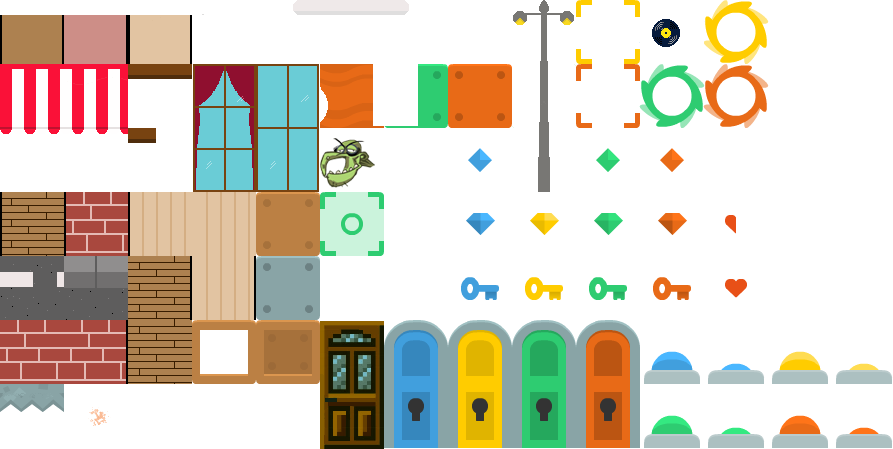
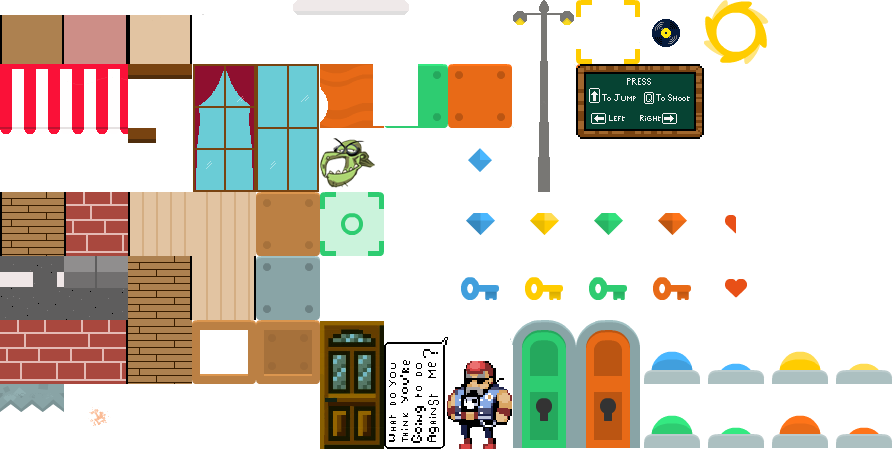
bientot fini

Changed region(s): [[0.4233, 0.686, 0.5745, 1.0], [0.6349, 0.1247, 0.8768, 0.3742], [0.7256, 0.343, 0.7861, 0.3742]]

diff --git a/src/scenes/TableauTiled.js b/src/scenes/TableauTiled.js
@@ -17,7 +17,7 @@ class TableauTiled extends Tableau{
         // nos images
         this.load.image('tiles', 'assets/Tiled/Tile_sheet2.png');
         //les données du tableau qu'on a créé dans TILED
-        this.load.tilemapTiledJSON('map', 'assets/TiledMap/MapVibe3.json');
+        this.load.tilemapTiledJSON('map', 'assets/TiledMap/MapVibe4.json');
 
         // -----et puis aussi-------------
         this.load.image('ciel', 'assets/ciel.png');
@@ -58,17 +58,20 @@ class TableauTiled extends Tableau{
         this.solide = this.map.createLayer('sol', this.tileset, 0, 0);
         this.decor = this.map.createLayer('décor', this.tileset, 0, 0);
         this.plat = this.map.createLayer('platformes', this.tileset, 0, 0);
+        this.image = this.map.createLayer('image', this.tileset, 0, 0);
 
 
         //on définit les collisions, plusieurs méthodes existent:
 
         this.solide.setCollisionByProperty({ collides: true });
         this.plat.setCollisionByProperty({ collides: true });
+        this.image.setCollisionByProperty({ collides: true });
 
 
         // 2 manière la plus simple (là où il y a des tiles ça collide et sinon non)
         this.solide.setCollisionByExclusion(-1, true);
         this.plat.setCollisionByExclusion(-1, true);
+        this.image.setCollisionByExclusion(-1, true);
 
 
         //----------les étoiles (objets) ---------------------
@@ -135,6 +138,11 @@ class TableauTiled extends Tableau{
             debug.visible=false;
         }
 
+        this.image.renderDebug(debug,{
+            tileColor: null, // Couleur des tiles qui ne collident pas
+            collidingTileColor: new Phaser.Display.Color(255, 0, 0, 255), //Couleur des tiles qui collident
+            faceColor: null // Color of colliding face edges
+       });
 
         //---------- parallax ciel (rien de nouveau) -------------
 
@@ -204,6 +212,7 @@ class TableauTiled extends Tableau{
         this.plightContainer.setDepth(z--);
 
         this.decor.setDepth(z--);
+        this.image.setDepth(z--);
         //this.derriere.setDepth(z--);
         this.ciel.setDepth(z--);
         // this.sky2.setDepth(z--);

diff --git a/src/objects/Player.js b/src/objects/Player.js
@@ -11,6 +11,7 @@ class Player extends Phaser.Physics.Arcade.Sprite{
         this.setDisplaySize(70,100)
         this.setBodySize(this.body.width,this.body.height);
         this.setOffset(0, 0);
+        this.rechargeSonTir = false;
 
         this.anims.create({
             key: 'left',
@@ -93,11 +94,19 @@ class Player extends Phaser.Physics.Arcade.Sprite{
 
     shoot()
     {
-        var bullet = new Tir(this.scene,this.x, this.y);
-        console.log("Tir");
-        setTimeout(function(){
-            bullet.destroy();
-        },1500);
+        
+
+        if(this.rechargeSonTir === false) {
+            this.rechargeSonTir = true;
+            var bullet = new Tir(this.scene,this.x, this.y);
+            console.log("Tir");
+            setTimeout(function(){
+                bullet.destroy();
+            },1500);
+            setTimeout(function () {
+                Tableau.current.player.rechargeSonTir = false;
+            }, 900);
+        }
     }
 
 
